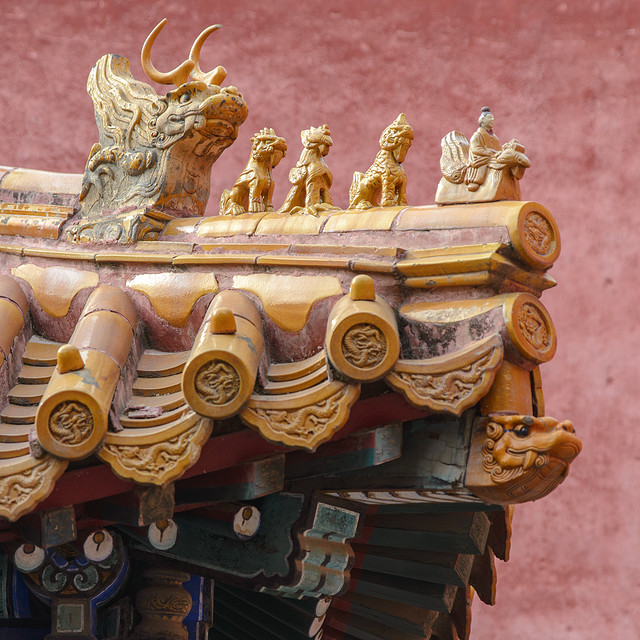
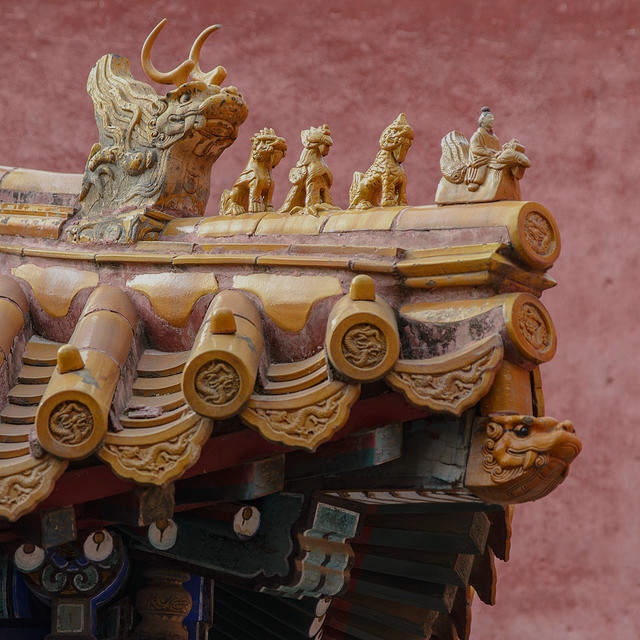
peking heros abgedunkelt

diff --git a/index.html b/index.html
@@ -551,7 +551,7 @@ footer {
   </a></div>
 
   <div class="journey" id="j-peking"><a href="/peking/">
-    <img src="peking/hero_ws.jpg" style="object-position: 75%; filter: brightness(85%);">
+    <img src="peking/hero_ws.jpg" style="object-position: 75%; filter: none;">
     <h3>Peking</h3>
     <h4 class="date">29/10/2017 – 02/11/2017</h4>
   </a></div>

diff --git a/peking/style.css b/peking/style.css
@@ -9,7 +9,7 @@
 .peking #header {
   background: url(hero_ws.jpg) no-repeat;
   background-position: center top;
-  filter: brightness(85%);
+  background-size: cover;
 }
 
 .peking #titlebox h1 {
